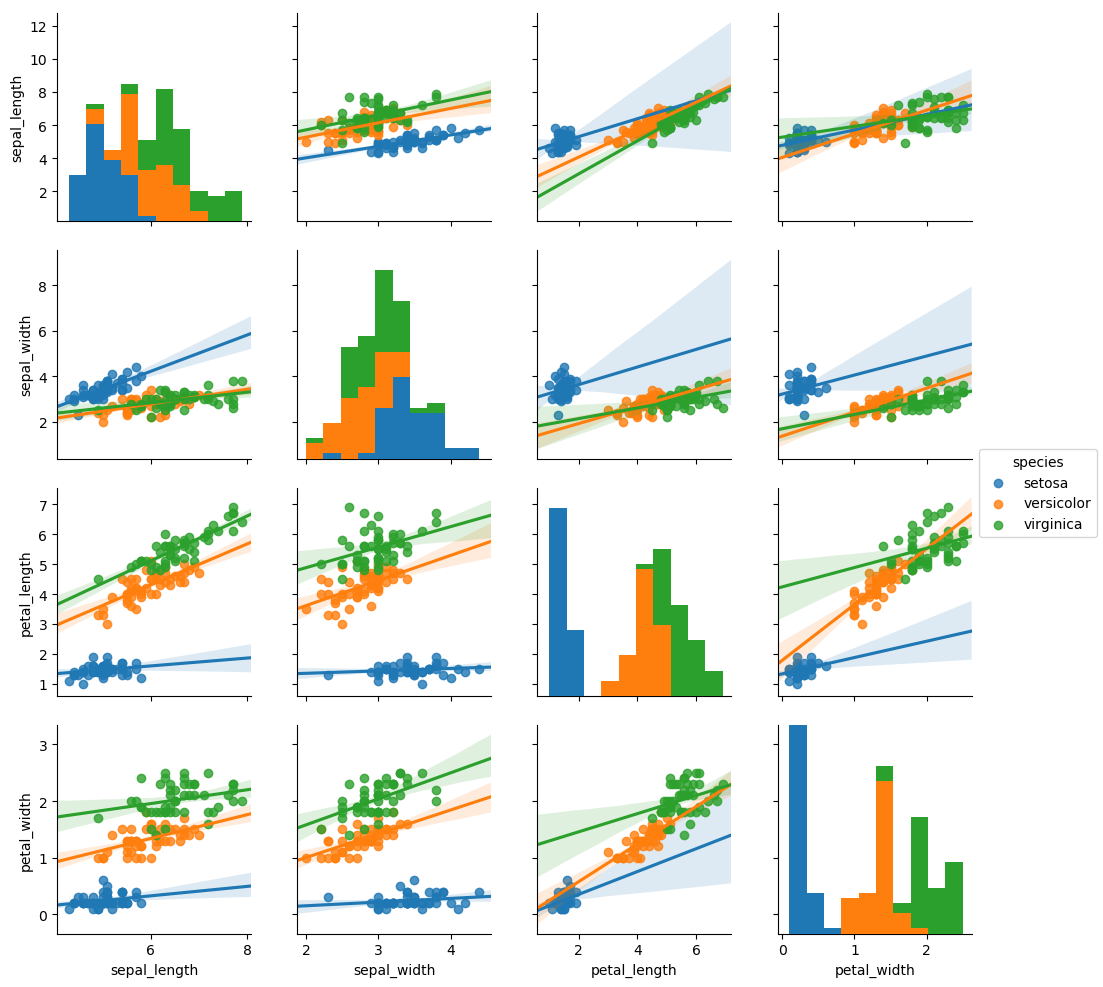
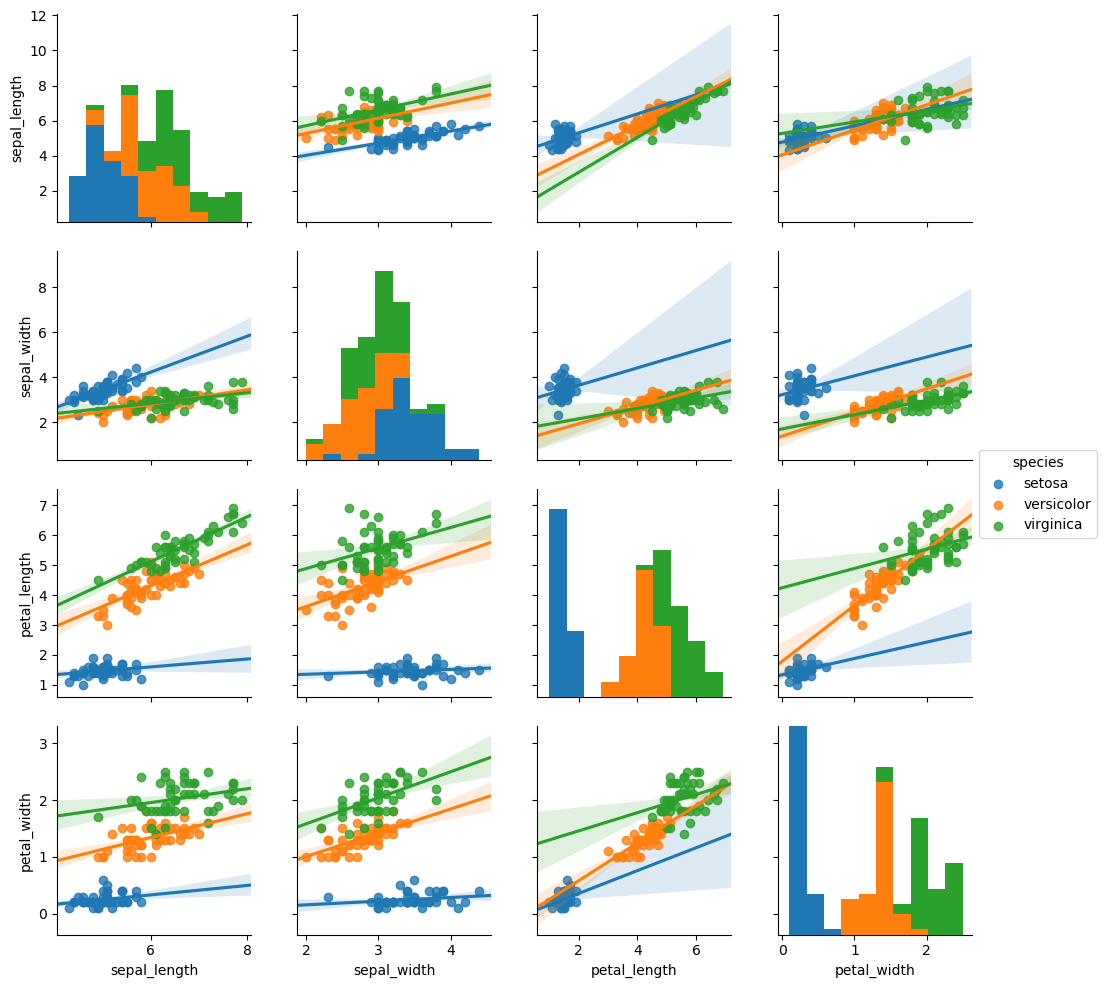
initial control panel testing

diff --git a/DataVis.py b/DataVis.py
@@ -171,8 +171,7 @@ def EDA_onSelect(evt):
                 a = fig.add_subplot(111)
                 sns.barplot(data=data, x='month', y='passengers', ci=None, ax=a)
                 EDA_Canvas.draw()
-        #Scatter plot
-        elif (index==3):
+        elif (index==3): #scatter plot
             if(config.has_section('scatter') and config.has_section('general')): #use custom vals for fig creation
                 #import user data set
                 data = config.get('general', 'dataset_location')
@@ -182,9 +181,10 @@ def EDA_onSelect(evt):
                 sp_y = config.get('scatter', 'y') #y var
                 sp_hue = config.get('scatter', 'hue') #hue column
                 sp_legend = config.getboolean('scatter', 'legend') #display legend?
+                sp_scatter = config.getboolean('scatter', 'scatter') #draw scatter?
                 sp_fit_reg = config.get('scatter', 'fit_reg') #fit linear regression line?
                 #create and display custom graph
-                sp = sns.lmplot(data=data, x=sp_x, y=sp_y, hue=sp_hue, fit_reg=sp_fit_reg)
+                sp = sns.lmplot(data=data, x=sp_x, y=sp_y, hue=sp_hue, legend=sp_legend, scatter=sp_scatter, fit_reg=sp_fit_reg)
                 sp.savefig('sp.png')
                 fig.clear()
                 a = fig.add_subplot(111)
@@ -193,39 +193,23 @@ def EDA_onSelect(evt):
                 a.axis('off')
                 EDA_Canvas.draw()
             else: #go with default fig creation
-                print('You selected item %d: "%s"' % (index, value))
                 data = sns.load_dataset("tips")
                 data = data.dropna()
-                sp = sns.lmplot(data=data, x="total_bill", y="tip", scatter=False)
+                sp = sns.lmplot(data=data, x="total_bill", y="tip")
                 sp.savefig('sp.png')
                 fig.clear()
                 a = fig.add_subplot(111)
                 img_arr = mpimg.imread('sp.png')
                 a.imshow(img_arr)
                 a.axis('off')
-                ##plot = sns.lmplot(data=data, x="total_bill", y="tip")
-                #sns.regplot(data=data, x='total_bill', y='tip', ax=a)
-                #sns.residplot(x=data['total_bill'], y=data['tip'], ax=a)
-                ##plot.savefig('plot.png')
-                ##img = Image.open('plot.png')
-                #filename = ImageTk.PhotoImage(img)
-                ##a.imshow(img)
                 EDA_Canvas.draw()
-        #PCA
-        elif (index==4):
-            if(config.has_section('PCA') and config.has_section('general')):
-                #use custom vals for fig creation
+        elif (index==4): #pca
+            if(config.has_section('PCA') and config.has_section('general')): #use custom vals for fig creation
                 print('You selected item %d: "%s"' % (index, value))
-            else:
-                #go with default fig creation
+            else: #go with default fig creation
                 print('You selected item %d: "%s"' % (index, value))
                 fig.clear()
-                #EDA_Listbox.configure(font=('Fixed', 14))
                 EDA_Canvas.draw()
-        #print('Tabs are: ', note.children.keys())
-        #print('Active tab: ', note.select())
-        #tabfont = font.Font(font=note.children[EDA]['font'])
-        #print(tabfont.actual())
 
 
 def Cleaning_onSelect(evt):

diff --git a/ControlPanelTest.py b/ControlPanelTest.py
@@ -1,0 +1,68 @@
+from tkinter import *
+
+
+def raise_frame(frame):
+    frame.tkraise()
+
+
+class Red_Frame(Frame):
+    def __init__(self, the_window):
+        super().__init__()
+        self["height"] = 150
+        self["width"] = 150
+        self["bg"] = "red"
+
+
+root = Tk()
+
+pane = PanedWindow(orient=HORIZONTAL)
+pane.pack(fill=BOTH, expand=1)
+
+left = Frame(pane)
+pane.add(left)
+right = Frame(pane)
+pane.add(right)
+
+pp_frame = Frame(right)
+cm_frame = Frame(right)
+bp_frame = Frame(right)
+sp_frame = Frame(right)
+
+pp_listbox = Frame(left)
+cm_listbox = Frame(left)
+bp_listbox = Frame(left)
+sp_listbox = Frame(left)
+
+for frame in (pp_frame, cm_frame, bp_frame, sp_frame):
+    frame.grid(row=0, column=0, sticky='news')
+
+for frame in (pp_listbox, cm_listbox, bp_listbox, sp_listbox):
+    frame.pack()
+
+Label(pp_frame, text='facetgrid').pack()
+Button(pp_listbox, text='Pairplot', command=lambda: raise_frame(pp_frame)).pack()
+
+Label(cm_frame, text='heatmap').pack()
+Button(cm_listbox, text='Correlation Matrix', command=lambda: raise_frame(cm_frame)).pack()
+
+Label(bp_frame, text='hist').pack()
+Button(bp_listbox, text='Bar Plot', command=lambda: raise_frame(bp_frame)).pack()
+
+Label(sp_frame, text='lmplot').pack()
+Button(sp_listbox, text='Scatter Plot', command=lambda: raise_frame(sp_frame)).pack()
+
+#group like this for functions?
+"""
+Label(pp_frame, text='facetgrid').pack()
+Label(cm_frame, text='heatmap').pack()
+Label(bp_frame, text='hist').pack()
+Label(sp_frame, text='lmplot').pack()
+
+Button(pp_listbox, text='Pairplot', command=lambda: raise_frame(pp_frame)).pack()
+Button(cm_listbox, text='Correlation Matrix', command=lambda: raise_frame(cm_frame)).pack()
+Button(bp_listbox, text='Bar Plot', command=lambda: raise_frame(bp_frame)).pack()
+Button(sp_listbox, text='Scatter Plot', command=lambda: raise_frame(sp_frame)).pack()
+"""
+
+raise_frame(pp_frame)
+root.mainloop()
